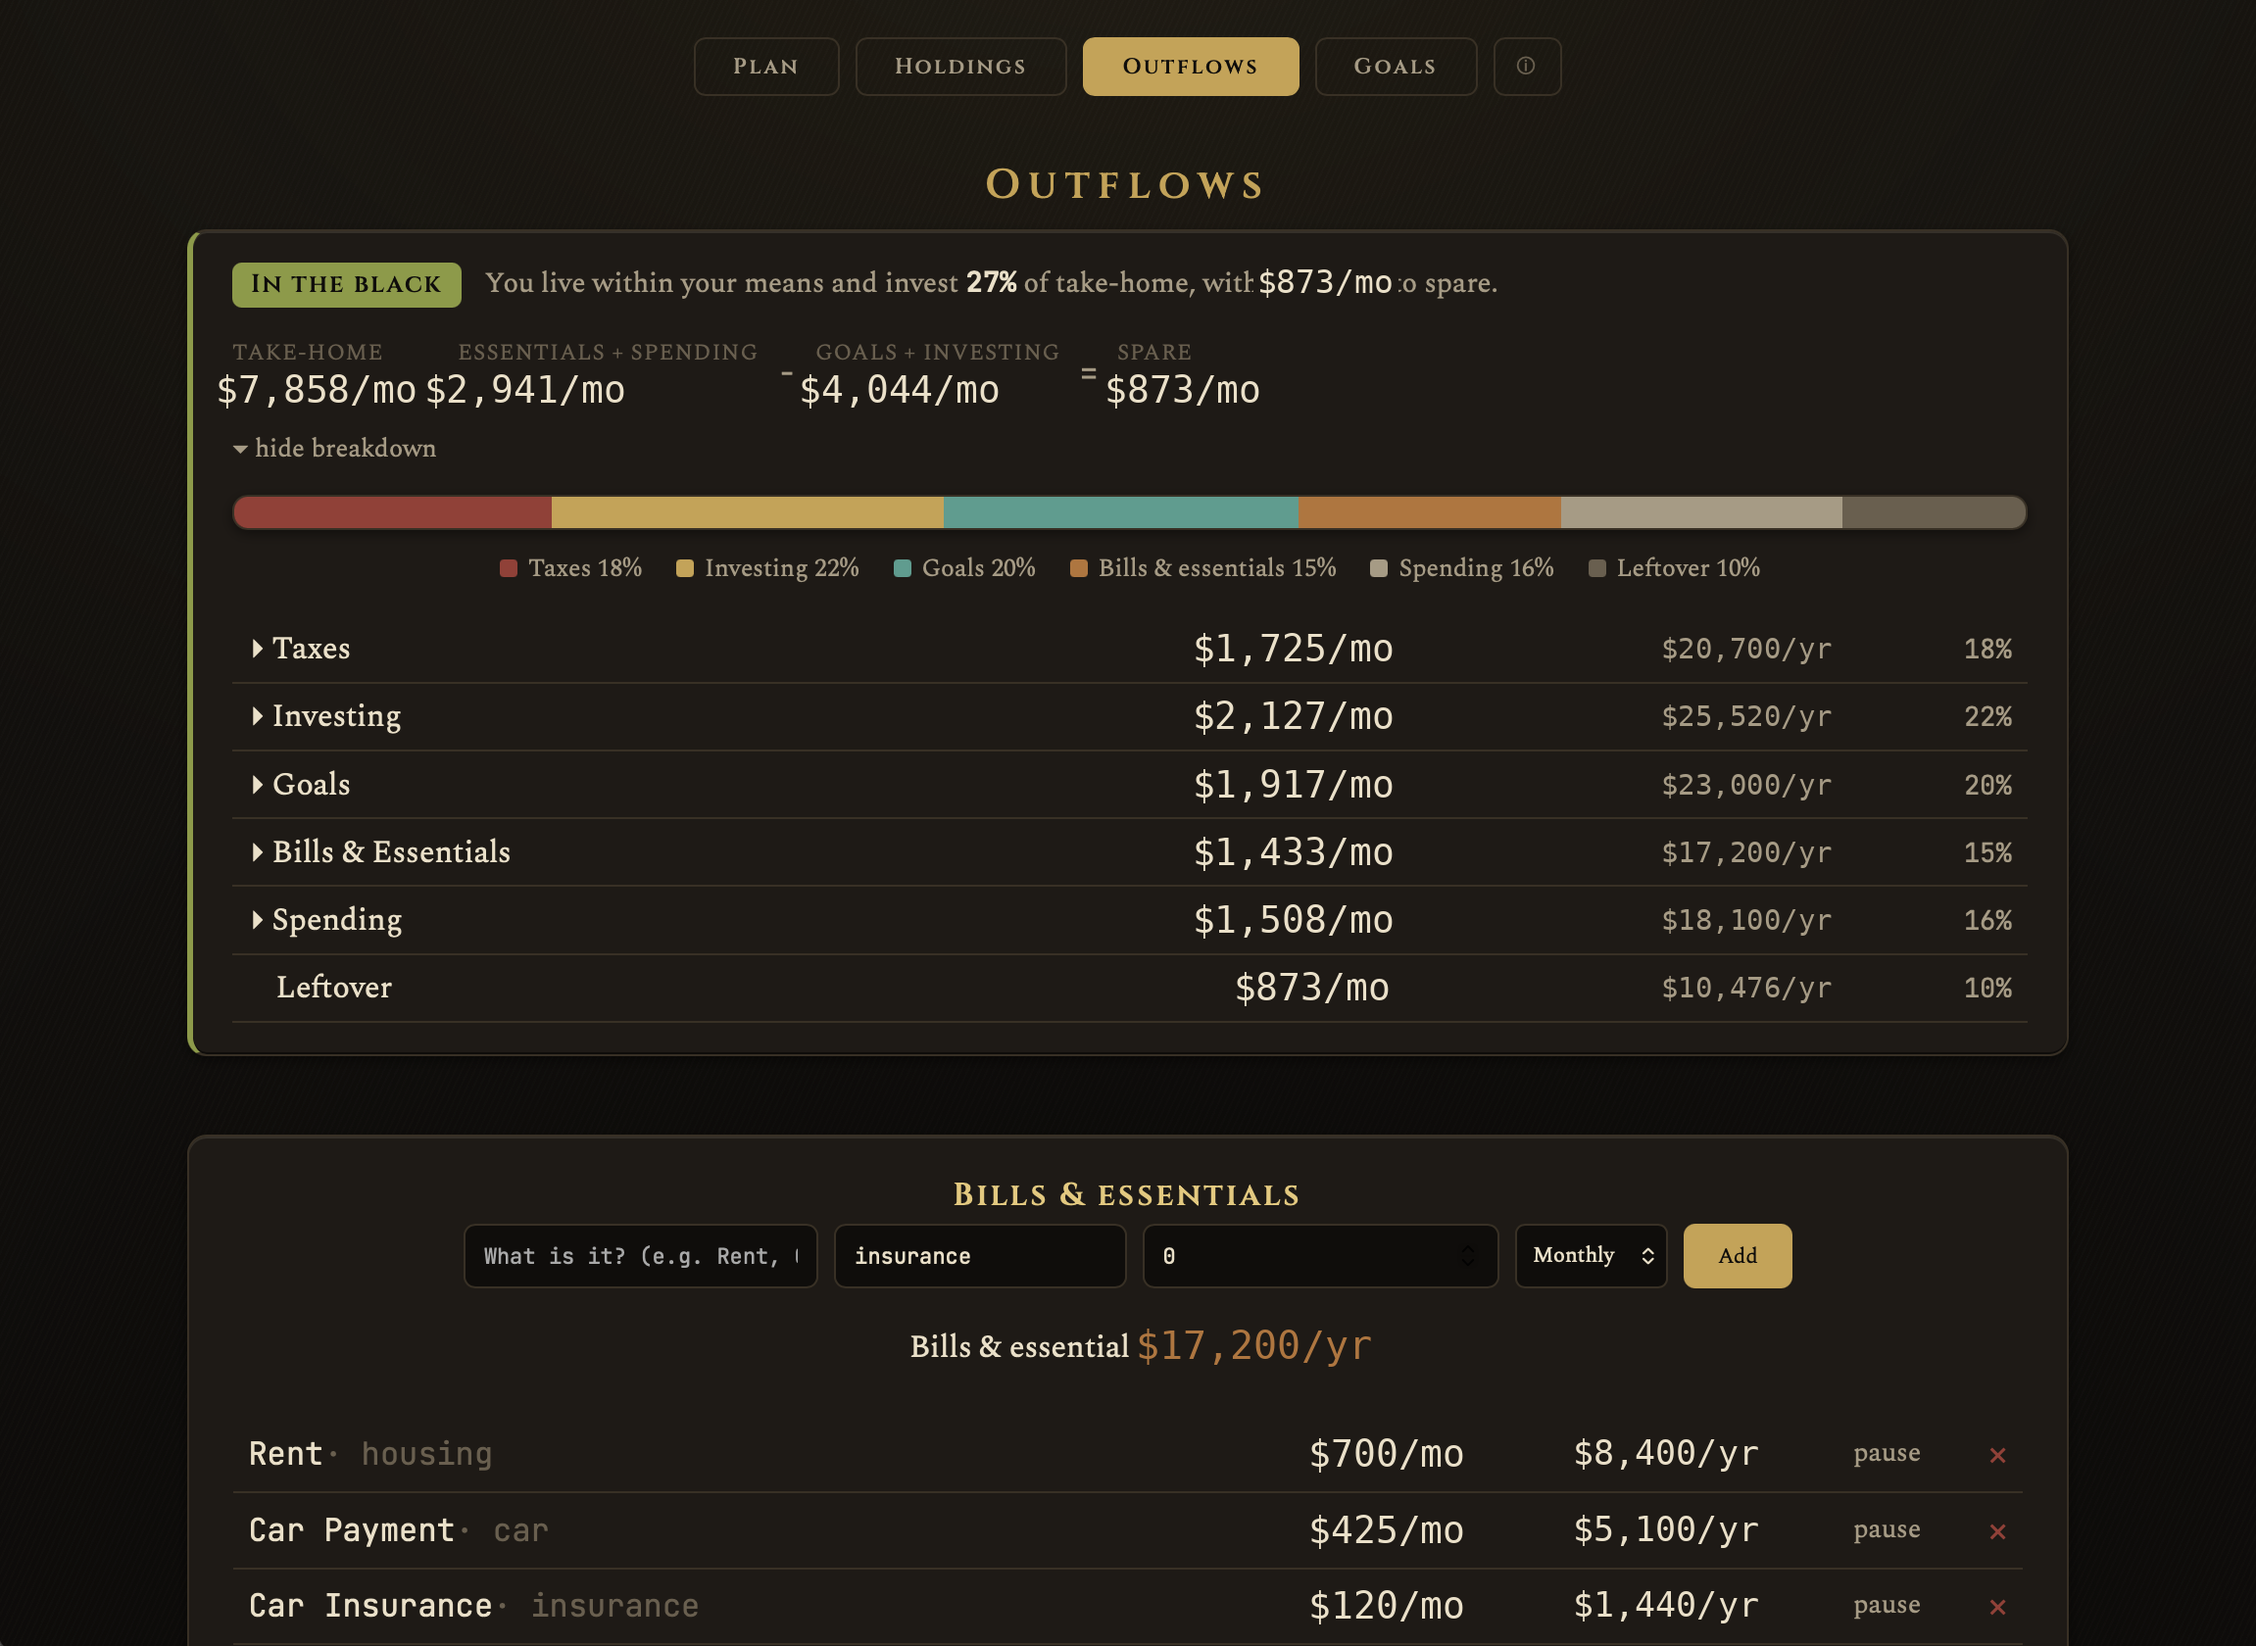
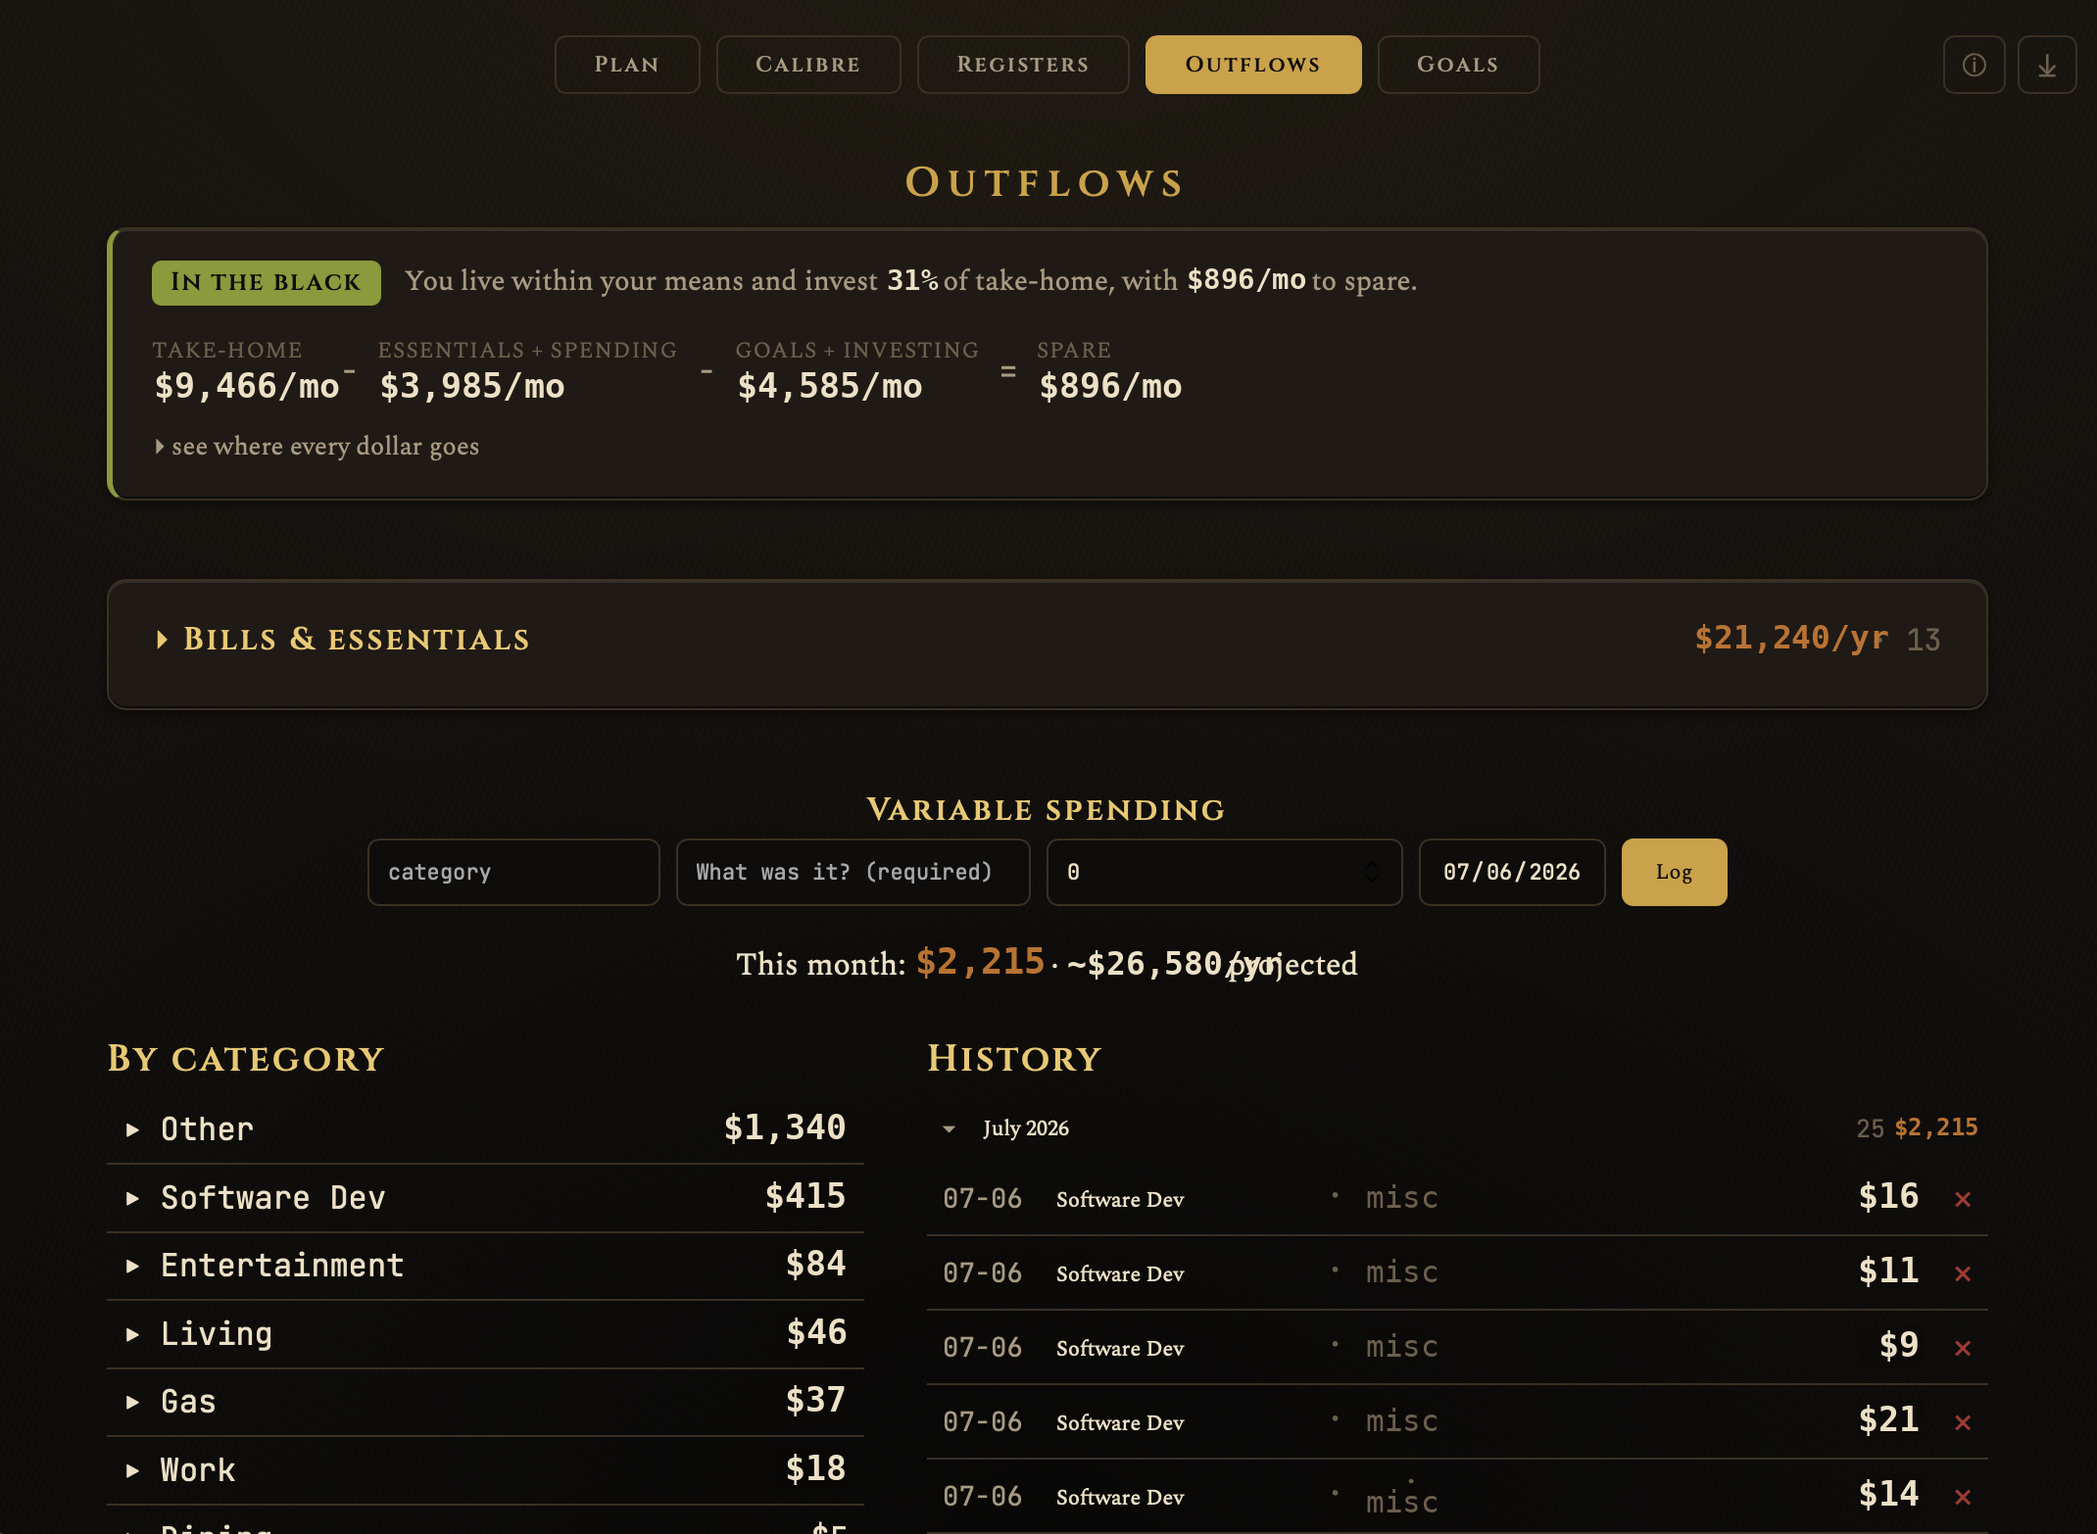
docs: restructure the README screenshot tour around the new captures
The photo set was refreshed: the Plan now tells its story in three shots
(vitals → levers → forecast), the Calibre and Registers each get a real capture,
and Outflows collapses to a single full-page shot. Regroup 'The face' into
per-instrument subsections that headline the Calibre and the Registers, and
rewrite every caption to match what each screenshot actually shows. Drop the
retired holdings1/outflows2 images; add dashboard3, calibre1, registers1.

diff --git a/README.md b/README.md
@@ -17,54 +17,51 @@ Single-user. Local-first. Privacy-critical — this holds your real money, so by
 
 ## The face
 
+<sub><i>Every figure on these screens is redacted and replaced with AI-generated values.</i></sub>
+
+### The Plan — your whole position on one tick
+
+Turn any dial and the vitals, the forecast, and your freedom date all move together — no wire, no server, under one tick.
+
 <p align="center">
-  <img src="assets/dashboard1_redacted.png" alt="The Plan dashboard — net worth projection and where every dollar goes" width="820"><br>
-  <sub><b>The Plan.</b> Projected net worth against your coast and freedom numbers, with every dollar of income laid out beneath. · <i>All figures on these screens are redacted and replaced with AI-generated values.</i></sub>
+  <img src="assets/dashboard1_redacted.png" alt="The Plan — take-home and freedom vitals over a progress-to-freedom meter" width="820"><br>
+  <sub><b>Vitals.</b> Take-home (gross minus tax) beside the freedom readout — FI age, FI number, savings rate, employer match, coast number — over a progress-to-freedom meter that runs from where you stand now, through your coast point, to full independence.</sub>
 </p>
 
 <p align="center">
-  <img src="assets/dashboard2_redacted.png" alt="The Plan — contribution gauges and post-tax distribution dials" width="820"><br>
-  <sub><b>The Plan, lower half.</b> The brass contribution dials (tagged pre-tax / post-tax) and post-tax distribution, above the Monte-Carlo forecast. · <i>Figures redacted / AI-generated.</i></sub>
+  <img src="assets/dashboard2_redacted.png" alt="The Plan — contribution dials and post-tax distribution gauges" width="820"><br>
+  <sub><b>The levers.</b> Brass contribution dials tagged pre-tax / post-tax (401(k), Roth…), and the post-tax distribution of every take-home dollar across bills, spending, goals, and taxable investing.</sub>
 </p>
 
 <p align="center">
-  <!-- SCREENSHOT: The Calibre tab. Full view — preset shelf at top, the asset-class
-       weight gauges in the middle, and the μ/σ · bad-year · success readout strip.
-       Turn one gauge off its saved mix first so the deltas-vs-applied show. -->
-  <img src="assets/calibre1_redacted.png" alt="The Calibre — design an asset-class mix and watch μ, σ, and success respond" width="820"><br>
-  <sub><b>The Calibre.</b> Design an asset-class <i>mix</i>, not a stock pick — turn the gauges and watch expected real return (μ), volatility (σ), and success probability respond live. The chosen calibre becomes the return assumption behind the Plan's forecast. A modeling instrument, not advice. · <i>Figures redacted / AI-generated.</i></sub>
+  <img src="assets/dashboard3_redacted.png" alt="The Plan — net-worth forecast, opportunity cost, and where every dollar goes" width="820"><br>
+  <sub><b>The forecast.</b> Projected net worth against your coast and FI lines, the opportunity cost of everything spent rather than invested (<i>“bills + spending invested instead”</i>), and a where-every-dollar-goes bar — over a Monte-Carlo success run when you expand it.</sub>
 </p>
 
-<p align="center">
-  <!-- SCREENSHOT: The Registers tab, top panel ("Registers — drift vs. your design").
-       Needs a few tracked positions across ≥2 asset classes with classes assigned,
-       ideally at least one class drifted past ±5pp so the drift chip + rebalance
-       helper line (months-to-close or the tax-costed trim) is visible. -->
-  <img src="assets/registers1_redacted.png" alt="The Registers — holdings regrouped by asset class, drift against the designed mix" width="820"><br>
-  <sub><b>The Registers.</b> Your actual holdings regrouped by asset class and read against the Calibre you designed — target-vs-held bars, drift flagged past ±5 points, and for a drifted class either a no-sell contribution path or a to-the-cent tax cost to trim. · <i>Figures redacted / AI-generated.</i></sub>
-</p>
+### The Calibre — design the portfolio, watch the odds move
 
 <p align="center">
-  <!-- SCREENSHOT: The Registers tab, lower panels — "Recurring contributions" (with
-       an Acorns-style auto-invest row) and "Tracked positions & lots" showing a
-       positions table with cost basis / value / realized gains. -->
-  <img src="assets/holdings1_redacted.png" alt="The Registers — recurring contributions and tracked positions" width="820"><br>
-  <sub><b>The Registers, lower half.</b> Recurring auto-contributions (e.g. Acorns) alongside tracked, share-by-share positions with cost basis, gains, and a per-holding trend projection. · <i>Figures redacted / AI-generated.</i></sub>
+  <img src="assets/calibre1_redacted.png" alt="The Calibre — design an asset-class mix and watch μ, σ, bad year, and success respond" width="820"><br>
+  <sub><b>The Calibre.</b> Design an asset-class <i>mix</i>, not a stock pick. Turn the class gauges — each badged <i>historical</i> or <i>assumed</i> with its own μ/σ — and watch expected real return, volatility, a typical bad year, and plan-success probability respond live at the foot. The chosen calibre becomes the return assumption behind the Plan's forecast. A modeling instrument, not advice.</sub>
 </p>
 
-<p align="center">
-  <img src="assets/outflows1_redacted.png" alt="Outflows — cash-flow verdict and budget breakdown" width="820"><br>
-  <sub><b>Outflows.</b> A cash-flow verdict — in the black or over budget — over the full where-it-goes breakdown, drillable line by line. · <i>Figures redacted / AI-generated.</i></sub>
-</p>
+### The Registers — track what you actually hold, against the design
 
 <p align="center">
-  <img src="assets/outflows2_redacted.png" alt="Outflows — committed costs by category and variable spending history" width="820"><br>
-  <sub><b>Outflows, lower half.</b> Committed costs by category, and variable spending logged and grouped by month. · <i>Figures redacted / AI-generated.</i></sub>
+  <img src="assets/registers1_redacted.png" alt="The Registers — return assumptions, recurring contributions, and tracked positions" width="820"><br>
+  <sub><b>The Registers.</b> Track what you invest: a reference ticker's local price history sets the forecast's μ/σ, recurring auto-contributions (Acorns, a robo-advisor) feed the net-worth projection, and share-by-share lots carry cost basis and realized gains. Record positions and tag each with an asset class, and the top panel regroups them by class to flag <b>drift</b> from your Calibre — offering a no-sell contribution path or a to-the-cent tax cost to trim.</sub>
+</p>
+
+### Outflows &amp; Goals — what leaves, and what you're building toward
+
+<p align="center">
+  <img src="assets/outflows1_redacted.png" alt="Outflows — cash-flow verdict, bills, and variable spending" width="820"><br>
+  <sub><b>Outflows.</b> A cash-flow verdict — in the black or over budget — from take-home minus essentials, spending, goals, and investing. Bills roll up by category; variable spending is logged, projected to an annual run-rate, and grouped by month.</sub>
 </p>
 
 <p align="center">
   <img src="assets/goals1_redacted.png" alt="Savings goals as an ordered checklist" width="820"><br>
-  <sub><b>Goals.</b> Sinking funds as an ordered checklist — one funds at a time (active vs planned), at any cadence. · <i>Figures redacted / AI-generated.</i></sub>
+  <sub><b>Goals.</b> Sinking funds as an ordered checklist — one funds at a time (active vs. planned), at any cadence, each with progress, ETA, and a deposit log.</sub>
 </p>
 
 ---
